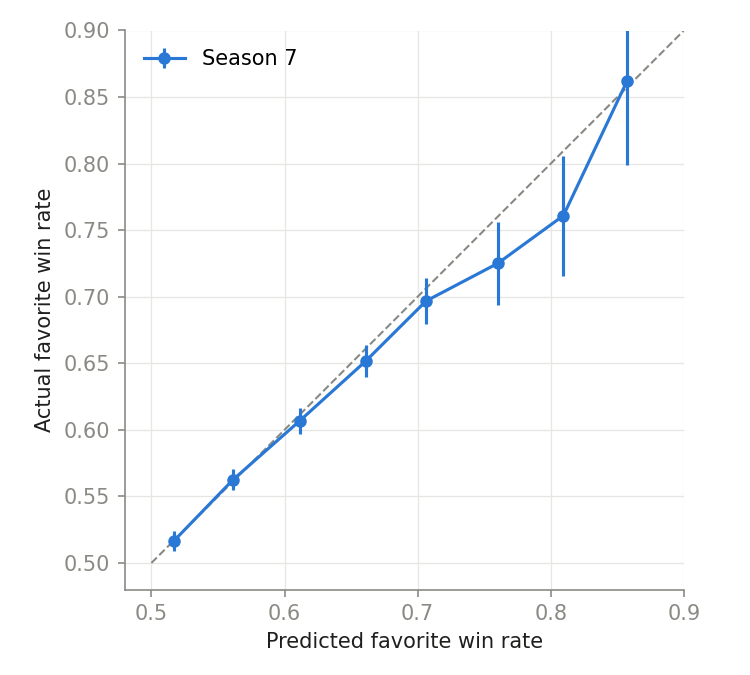
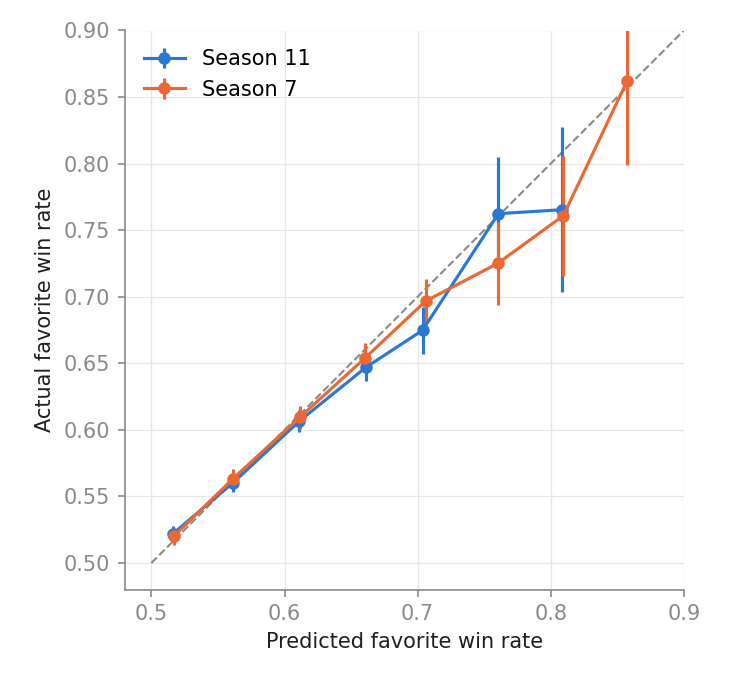
Make Season 11 the headline, Season 7 the replication

diff --git a/analysis.py b/analysis.py
@@ -17,8 +17,8 @@ seasons = [s for (s,) in con.sql("select distinct season from matches order by s
 colors = dict(zip(seasons, [BLUE, ORANGE]))
 
 
-def save(fig, name):
-    fig.tight_layout()
+def save(fig, name, top=1.0):
+    fig.tight_layout(rect=(0, 0, 1, top))
     fig.savefig(f"figures/{name}.png", facecolor="white")
     plt.close(fig)
 
@@ -27,7 +27,8 @@ def save(fig, name):
 cal = con.sql("select * from calibration where matches >= 100 order by season, bin").df()
 fig, ax = plt.subplots(figsize=(5, 4.5))
 ax.plot([0.5, 0.9], [0.5, 0.9], color=MUTED, lw=1, ls="--")
-for season, d in cal.groupby("season"):
+for season in seasons:
+    d = cal[cal.season == season]
     ax.errorbar(d.predicted, d.actual, yerr=d.ci, fmt="o-", ms=5, lw=1.5, capsize=0,
                 color=colors[season], label=f"Season {season}")
 ax.set(xlabel="Predicted favorite win rate", ylabel="Actual favorite win rate",
@@ -66,8 +67,8 @@ for ax, feature in zip(axes, ["overworld", "bastion"]):
     ax.set_yticks(range(len(d)), [t.replace("_", " ").lower() for t in d.seed_type])
     ax.set_title(f"{feature.capitalize()} type", color=INK, loc="left")
     ax.set_xlabel("Median completion time (min)")
-fig.legend(*axes[0].get_legend_handles_labels(), frameon=False, loc="upper right", ncol=2)
-save(fig, "seed_completion_time")
+fig.legend(*axes[0].get_legend_handles_labels(), frameon=False, loc="upper center", ncol=2)
+save(fig, "seed_completion_time", top=0.9)
 
 # Numbers quoted in the reports.
 print(con.sql("""

diff --git a/README.md b/README.md
@@ -1,6 +1,6 @@
 # MCSR Ranked: an independent analysis
 
-[MCSR Ranked](https://mcsrranked.com) is a 1v1 ladder for Minecraft speedrunning: two players race to beat the game on the same seed. Using the public API, this looks at 56,454 ranked matches from Season 7 (Dec 2024 – Apr 2025) involving the top 150 players.
+[MCSR Ranked](https://mcsrranked.com) is a 1v1 ladder for Minecraft speedrunning: two players race to beat the game on the same seed. Using the public API, this looks at 80,161 ranked matches from Season 11 (Apr – Aug 2026) involving the top 150 players, and checks each finding against Season 7 (68,645 matches, Dec 2024 – Apr 2025).
 
 ## Findings
 
@@ -10,23 +10,25 @@
 
 Like chess, MCSR Ranked uses Elo ratings. Before each match the system predicts each player's chance of winning from their rating gap, and sizes the rating change by it: beating the odds earns more points than winning as expected. The API doesn't publish these predictions, but the points reveal them. Each match moves 40 points (measured from the data, not documented; see [`sql/elo_calibration.sql`](sql/elo_calibration.sql)), so a favorite given a 70% chance gains 12 points for a win (40 × 30%) and loses 28 for a loss (40 × 70%).
 
-Comparing those predictions with actual results, they differ by 0.4 percentage points on average. The only gap is above 75% predicted (2% of matches), where favorites win about 4 points less often than predicted.
+Comparing those predictions with actual results, they differ by 0.6 percentage points on average (0.4 in Season 7). The misses are at the high end: favorites given a 70–75% chance win 67% of the time.
 
 **Implication:** predictions are reliable enough to show players or to use in matchmaking as they are.
 
-### 2. Lopsided matches are abandoned more often, but only within a skill level
+### 2. Lopsided matches are abandoned more often
 
-![Abandonment rate, close vs. lopsided matches](figures/abandonment.png)
+![Abandonment rate, close vs. lopsided matches, Season 11](figures/abandonment.png)
 
-A match is *close* if the favorite's predicted win probability is under 60% and *lopsided* otherwise, and *abandoned* if it ended in a forfeit or with no result. Skill level is the average of the two players' ratings. Overall, close and lopsided matches look the same (33% vs. 34% abandoned). Below 1800 Elo, lopsided matches are abandoned more: 44% vs. 52% below 1500, 28% vs. 34% at 1500–1800 (above 1800 there's no clear difference). The aggregate hides this because skill level drives abandonment far more than closeness: 44–52% below 1500, about 20% above 1800.
+A match is *close* if the favorite's predicted win probability is under 60% and *lopsided* otherwise, and *abandoned* if it ended in a forfeit or with no result. Skill level is the average of the two players' ratings. Overall, 27% of lopsided matches are abandoned vs. 19% of close ones, and the gap holds at every skill level: 21% vs. 37% at 1500–1800, 15% vs. 20% above 1800, and 36% vs. 84% below 1500 (only 500 lopsided matches).
 
-**Implication:** tighter matchmaking for lower-rated players may reduce abandonment. This is observational, so it's a hypothesis for an experiment, not a result.
+Season 7 shows the same gap below 1800 (45% vs. 54% below 1500, 29% vs. 34% at 1500–1800), but not overall (35% vs. 36%): lower-rated matches were abandoned far more and were more often close, which hid it.
+
+**Implication:** tighter matchmaking may reduce abandonment. This is observational, so it's a hypothesis for an experiment, not a result.
 
 ### 3. The seed pool is balanced
 
 ![Median completion time by seed type](figures/seed_completion_time.png)
 
-Seed assignment looks random: favorites are equally strong on every seed type, and average player rating differs by under 20 points. So differences between seed types are effects of the seed. Seed type shifts median completion time by at most 0.7 minutes (ruined portal 10.7, village 11.4) and completion rate by at most 4 points (65–69%). On every seed type, favorites win as often as predicted (within 1 point), so no seed type swaps skill for luck.
+Seed assignment looks random: favorites are equally strong on every seed type, and average player rating differs by under 5 points (under 20 in Season 7). So differences between seed types are effects of the seed. Seed type shifts median completion time by under a minute (ruined portal 9.7, village 10.5) and completion rate by at most 4 points (76–80%). On every seed type, favorites win as often as predicted (within 1 point). Season 7 shows the same ordering and the same result.
 
 **Implication:** no seed type needs removing.
 
